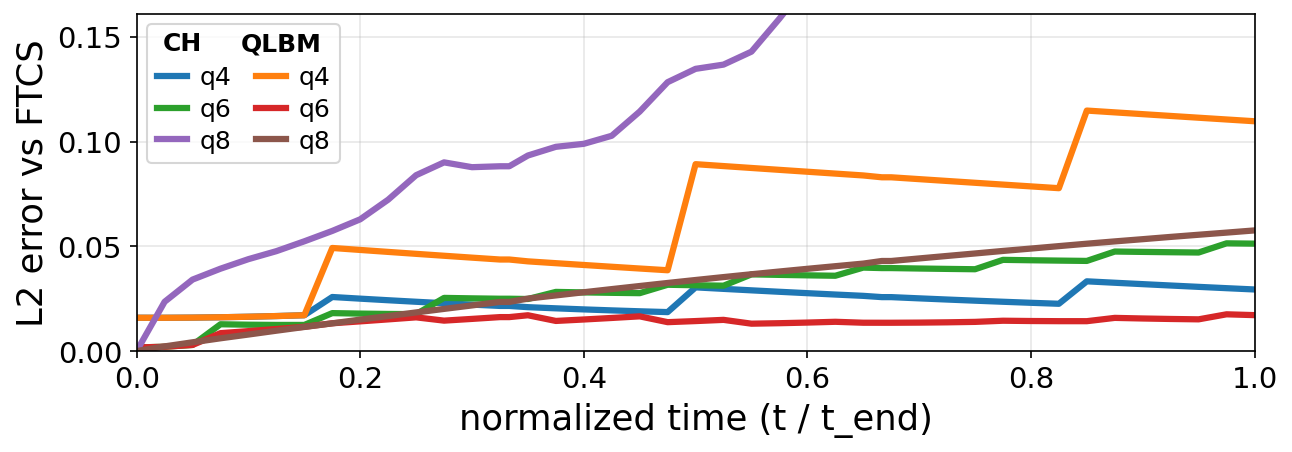
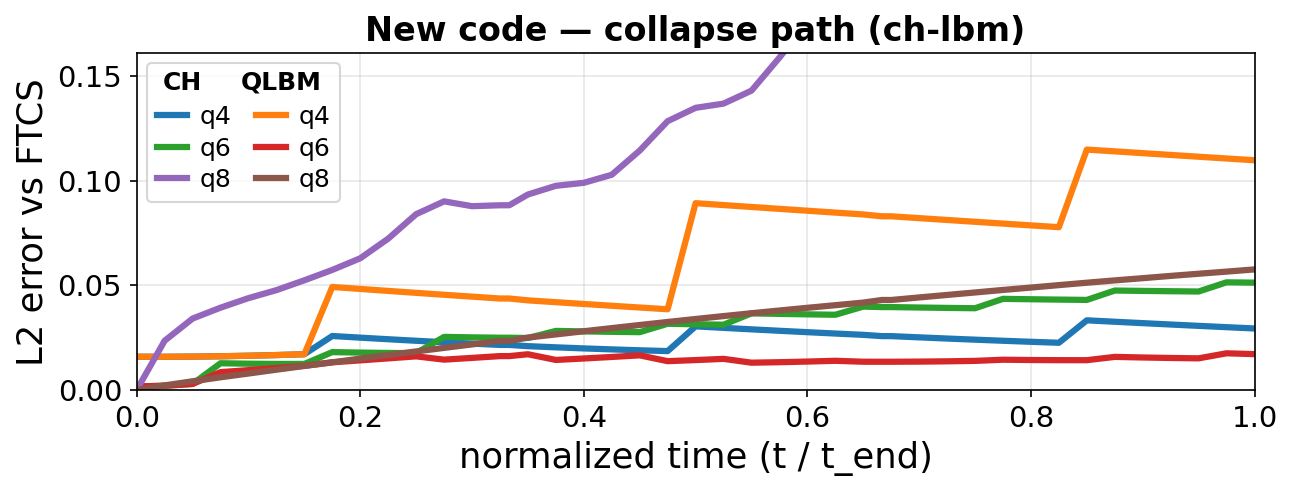
add title

Changed region(s): [[0.0, 0.031, 0.9907, 0.8673], [0.3406, 0.8982, 0.7121, 0.9602]]

diff --git a/burgers-ch-lbm-June2026/postproc/plot_dataset_movie.py b/burgers-ch-lbm-June2026/postproc/plot_dataset_movie.py
@@ -252,6 +252,11 @@ def main() -> None:
         help="with --still, which panel to save (default both). 'profile' "
              "= the u(x,t) panel, 'error' = the L2 panel only.",
     )
+    ap.add_argument(
+        "--title", default=None,
+        help="optional title drawn above the saved still (e.g. to mark a "
+             "code variant such as the collapse path).",
+    )
     args = ap.parse_args()
 
     # Shared figure style (must match the sibling script's figures): large
@@ -439,6 +444,15 @@ def main() -> None:
             fidx = int(tok)
         fidx = max(0, min(fidx, len(frame_times) - 1))
         update(fidx)
+        # Optional variant-marking title.  For the error-only panel put it on
+        # that axis (a fig suptitle would fall outside the tight crop); for a
+        # profile/both save the profile title slot already holds the physics
+        # subtitle, so the marker goes above as a figure suptitle.
+        if args.title:
+            if args.panel == "error" and have_err:
+                ax_err.set_title(args.title, fontsize=16, fontweight="bold")
+            else:
+                fig.suptitle(args.title, fontsize=16, fontweight="bold")
         out = Path(args.out) if args.out else ds_path.with_name(
             f"{ds_path.stem}_still_{fidx}_{args.panel}.png")
         fig.canvas.draw()
@@ -455,7 +469,8 @@ def main() -> None:
             fig.canvas.draw()
             fig.savefig(str(out), dpi=150, bbox_inches="tight", pad_inches=0.1,
                         bbox_extra_artists=[panel_ax.yaxis.label,
-                                            panel_ax.xaxis.label])
+                                            panel_ax.xaxis.label,
+                                            panel_ax.title])
             other_ax.set_visible(True)
         plt.close(fig)
         # Provenance sidecar next to the still: how it was made (code +

diff --git a/burgers-ch-lbm-June2026/postproc/plot_circuit_resources_bakeoff.py b/burgers-ch-lbm-June2026/postproc/plot_circuit_resources_bakeoff.py
@@ -188,6 +188,10 @@ def main() -> None:
     ap.add_argument("--out-twin", default=None,
                     help="compact single-panel PNG: qubit bars (left, "
                          "linear) + circuit cost lines (right, log)")
+    ap.add_argument("--title", default=None,
+                    help="optional figure suptitle to mark a code variant "
+                         "(e.g. the collapse path); applies to the "
+                         "--out-twin panel.")
     args = ap.parse_args()
     if args.out_a or args.out_b:
         args.split = True
@@ -413,7 +417,11 @@ def main() -> None:
             handles=part_h + [qlbm_patch] + cost_metric_h,
             loc="upper left", fontsize=8, frameon=False, ncol=2,
         )
-        fig_t.tight_layout()
+        if args.title:
+            fig_t.suptitle(args.title, fontsize=14, fontweight="bold")
+            fig_t.tight_layout(rect=(0, 0, 1, 0.92))
+        else:
+            fig_t.tight_layout()
         out_t = Path(args.out_twin)
         fig_t.savefig(str(out_t), dpi=150)
         plt.close(fig_t)
